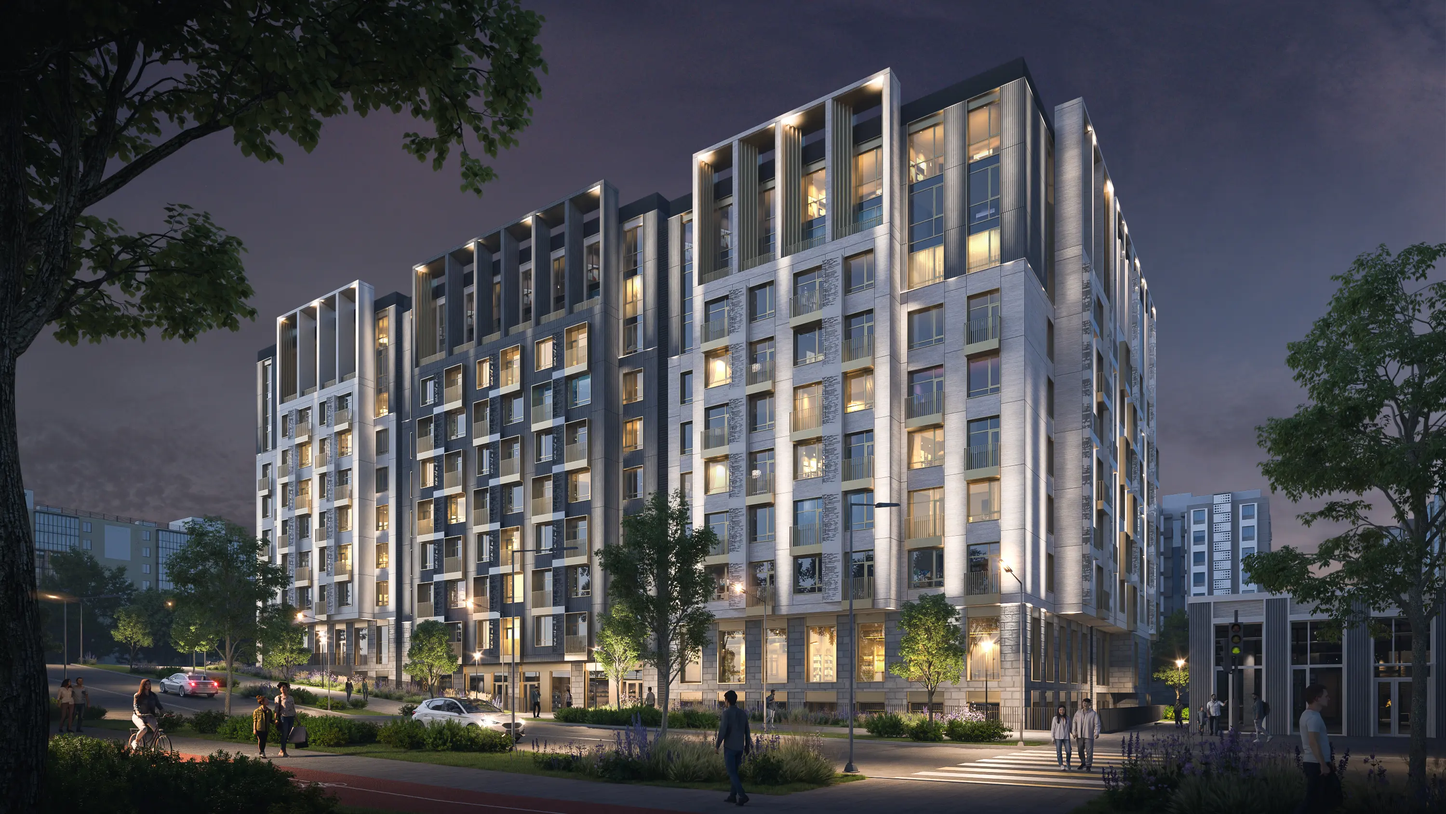
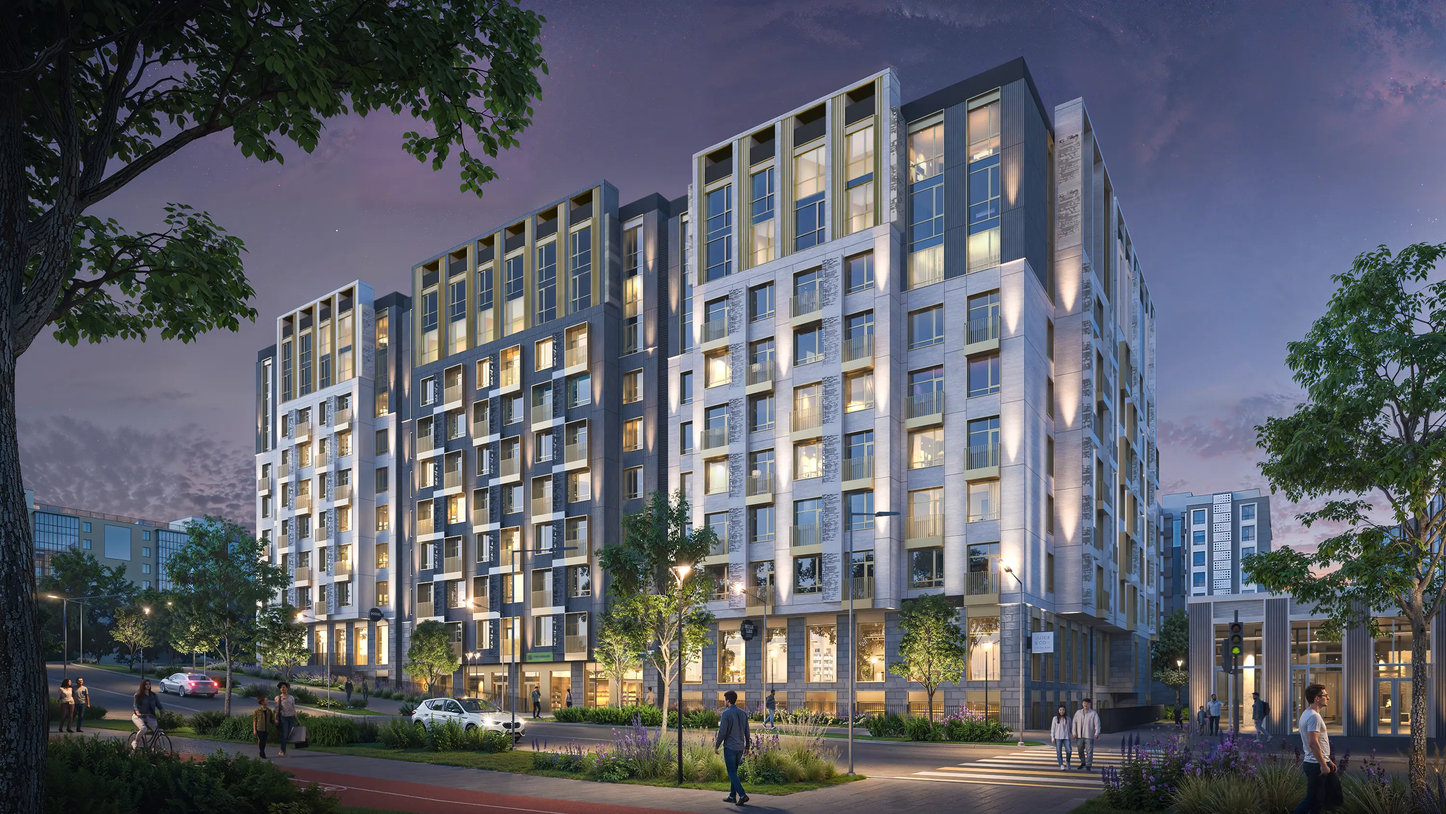
added to git

diff --git a/src/shared/ui/dayOrNight/DayOrNight.tsx b/src/shared/ui/dayOrNight/DayOrNight.tsx
@@ -9,14 +9,31 @@ export const DayOrNight = ({ onChange }: { onChange: (value: boolean) => void })
     };
 
     return (
-        <div className="absolute top-20 right-20 z-[2] h-52 p-8 bg-white flex items-center rounded-full gap-2" style={{ display: "none" }}>
-            <div className="w-36 h-36 flex items-center justify-center rounded-full cursor-pointer relative z-[3]" onClick={() => handleOnChange(true)}>
-                <img src="/sun.svg" alt="sun" className={[active ? "brightness-10 invert-[1]" : "opacity-[50%]"].join(" ")} />
+        <div className="absolute top-20 right-20 z-[2] h-52 p-8 bg-white flex items-center rounded-full gap-2">
+            <div
+                className="w-36 h-36 flex items-center justify-center rounded-full cursor-pointer relative z-[3]"
+                onClick={() => handleOnChange(true)}
+            >
+                <img
+                    src="/sun.svg"
+                    alt="sun"
+                    className={[active ? "brightness-10 invert-[1]" : "opacity-[50%]"].join(" ")}
+                />
             </div>
-            <div className="w-36 h-36 flex items-center justify-center rounded-full cursor-pointer relative z-[3]" onClick={() => handleOnChange(false)}>
-                <img src="/moon.svg" alt="moon" className={[!active ? "brightness-10 invert-[1]" : "opacity-[50%]"].join(" ")} />
+            <div
+                className="w-36 h-36 flex items-center justify-center rounded-full cursor-pointer relative z-[3]"
+                onClick={() => handleOnChange(false)}
+            >
+                <img
+                    src="/moon.svg"
+                    alt="moon"
+                    className={[!active ? "brightness-10 invert-[1]" : "opacity-[50%]"].join(" ")}
+                />
             </div>
-            <div className="absolute w-36 h-36 rounded-full top-8 bg-red transition-all duration-200" style={{ left: active ? 8 : 45 }} />
+            <div
+                className="absolute w-36 h-36 rounded-full top-8 bg-red transition-all duration-200"
+                style={{ left: active ? 8 : 45 }}
+            />
         </div>
     );
 };

diff --git a/src/views/cta/ui/CtaView.tsx b/src/views/cta/ui/CtaView.tsx
@@ -23,14 +23,18 @@ export const CtaView = () => {
             <Row className="max-lg:!flex-col-reverse">
                 <Col xl={10} lg={24} md={24} sm={24} xs={24} className="bg-orange">
                     <div className="flex flex-col h-full gap-40 bg-orange p-60 -mt-45 max-lg:mt-0 max-lg:p-24 max-lg:gap-30">
-                        <h4 className="uppercase text-[40px] -tracking-[0.01em] text-white font-light leading-tight font-display max-lg:text-2xl">{data?.title}</h4>
-                        <p className="text-white uppercase text-[16px] leading-snug max-w-320 font-display max-lg:text-sm">{data?.subtitle}</p>
+                        <h4 className="uppercase text-[40px] -tracking-[0.01em] text-white font-light leading-tight font-display max-lg:text-2xl">
+                            {data?.title}
+                        </h4>
+                        <p className="text-white uppercase text-[16px] leading-snug max-w-320 font-display max-lg:text-sm">
+                            {data?.subtitle}
+                        </p>
                         <CtaForm />
                     </div>
                 </Col>
                 <Col xl={14} lg={24} md={24} sm={24} xs={24}>
                     <div className="w-full h-full max-lg:!-mt-200">
-                        <img src="/day.webp" className="w-full h-full max-lg:max-h-200 object-cover" />
+                        <img src="/night.webp" className="w-full h-full max-lg:max-h-200 object-cover" />
                     </div>
                 </Col>
             </Row>
